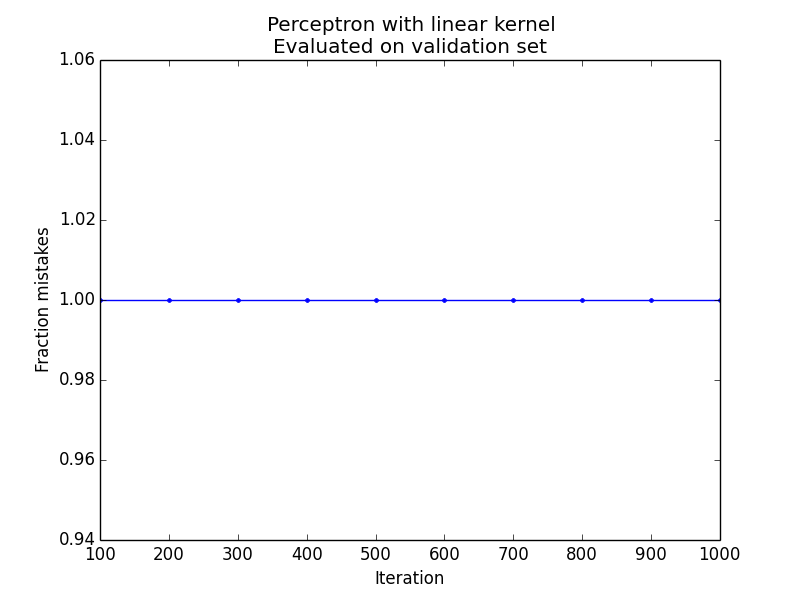
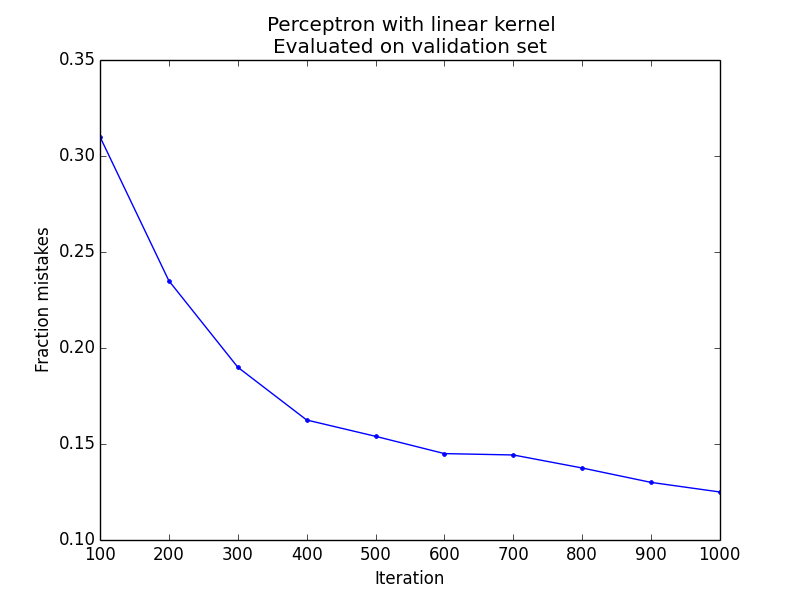
made alteration to comput_y_hat and added comments

diff --git a/src/hw3/perceptron_template.py b/src/hw3/perceptron_template.py
@@ -62,12 +62,14 @@ def exponential_kernel(u, v):
 def compute_y_hat(x_t, y_mistake, X_mistake, kernel):
     
     n_mistake = len(y_mistake)
-#     print("y has shape " + str(y_mistake.shape))
-#     print("X_mistake has shape" + str(X_mistake.shape))
+
     if not n_mistake:
         return sign(0)
     else:
-        return np.dot(y_mistake,kernel(X_mistake,x_t))
+#         out = 0
+#         for i in range(len(X_mistake)):
+#             out+=1
+        return sign(np.dot(y_mistake,kernel(X_mistake,x_t)))
      
 def sign(x): 
     if(x>=0):
@@ -102,10 +104,10 @@ def fit_perceptron(df, kernel):
         # is True with x[b]. Try it. Similarly, if X is an N-by-D matrix, you
         # can grab the rows of X where b is True with X[b].
         # Put in your values for these variables.
-        x_t = X[t,:]
-        y_t = y[t]
-        y_mistake = y[m]
-        X_mistake = X[m]
+        x_t = X[t,:] #row of x
+        y_t = y[t]  # value of specific data point
+        y_mistake = y[m] #all the y-values where a mistake was made
+        X_mistake = X[m] #rows of X where there was a mistake
         y_hat = compute_y_hat(x_t, y_mistake, X_mistake, kernel)
         if y_hat != y_t:
             m[t] = True         # Store the mistake if the model guessed wrong.
